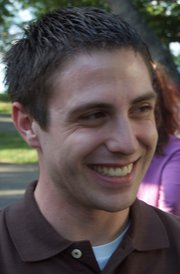
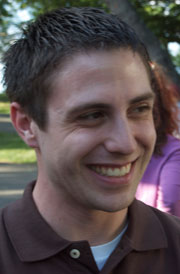
Add retina version of headshot image.

diff --git a/about/index.html b/about/index.html
@@ -9,7 +9,7 @@ human_title: About Me
 <div id="content" class="clearfix sidebar">
 
   <div id="sidebar">
-    <img src="/images/headshot.jpg" width="180" height="274">
+    <img src="/images/headshot@2x.jpg" width="180" height="274">
 
     <p>Find me on&hellip;</p>
     <ol class="links vertical">
